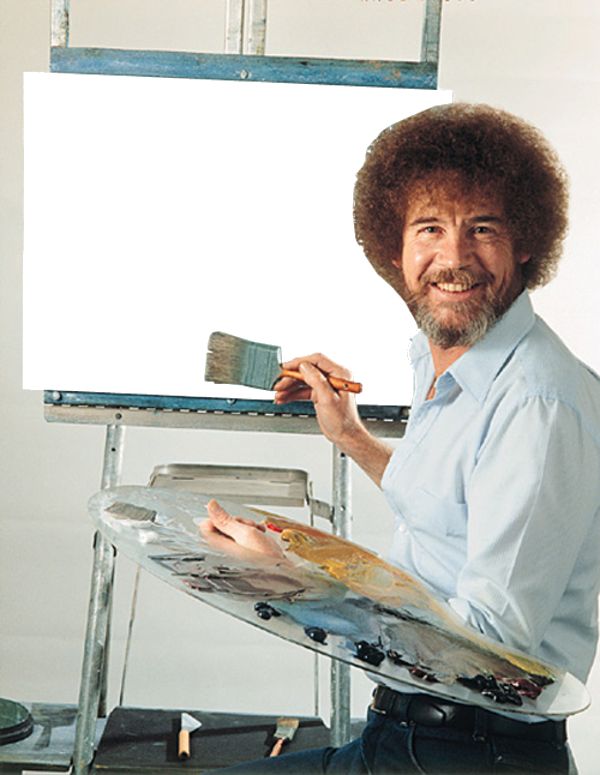
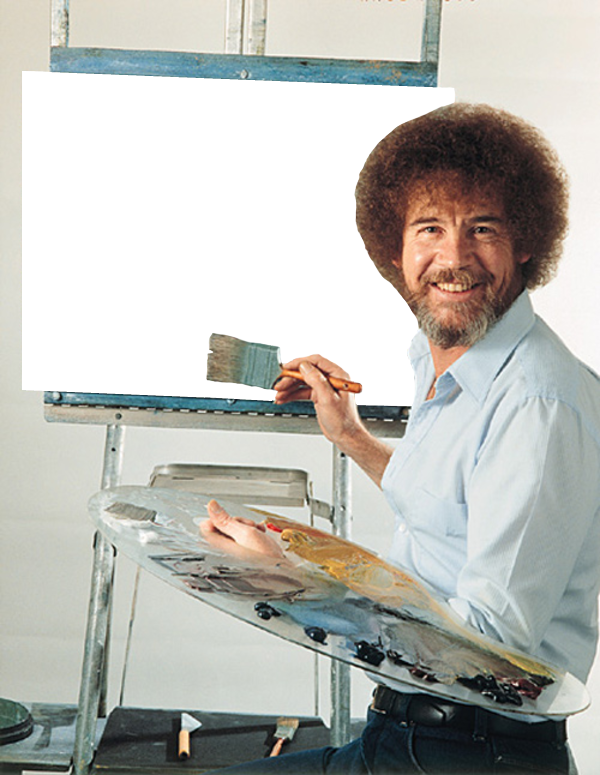
Fix bob-ross

diff --git a/commands/avatar-edit/bob-ross.js b/commands/avatar-edit/bob-ross.js
@@ -43,9 +43,7 @@ module.exports = class BobRossCommand extends Command {
 			const ctx = canvas.getContext('2d');
 			ctx.fillStyle = 'white';
 			ctx.fillRect(0, 0, base.width, base.height);
-			ctx.rotate(3 * (Math.PI / 180));
 			ctx.drawImage(avatar, 30, 19, 430, 430);
-			ctx.rotate(-3 * (Math.PI / 180));
 			ctx.drawImage(base, 0, 0);
 			return msg.say({ files: [{ attachment: canvas.toBuffer(), name: 'bob-ross.png' }] });
 		} catch (err) {
